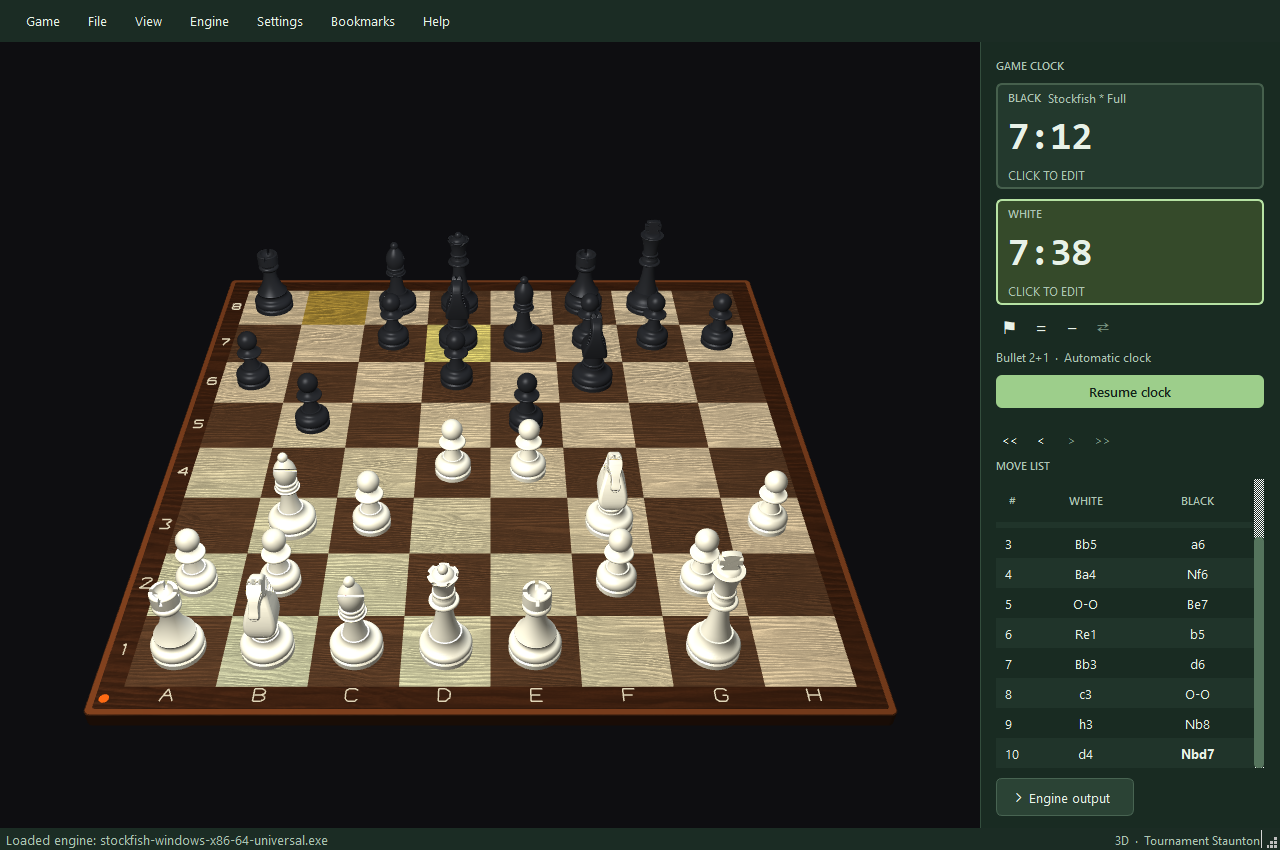
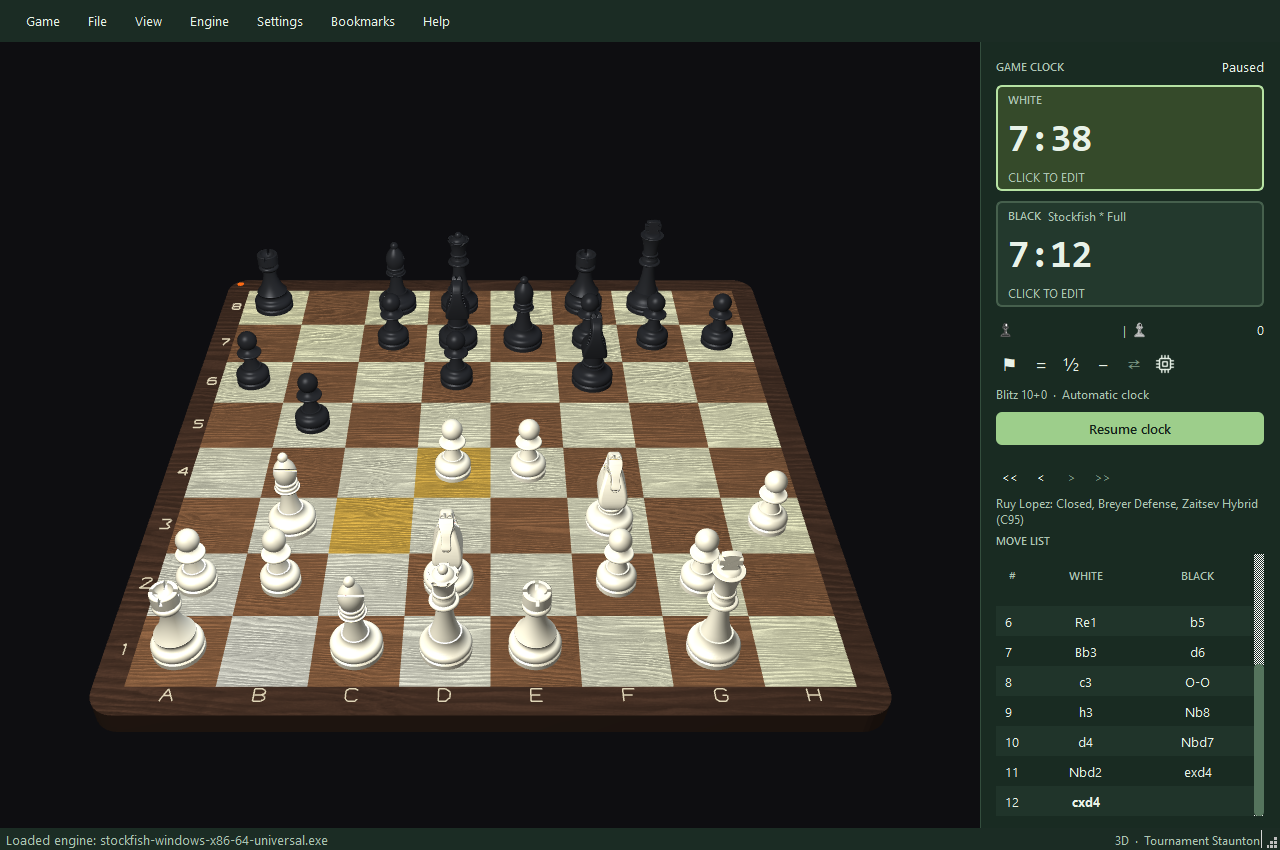
Refine sidebar controls and opening display; refresh themed screenshots

diff --git a/otb_chess/ui/desktop_ui.py b/otb_chess/ui/desktop_ui.py
@@ -31,7 +31,7 @@ from otb_chess.ui.document_actions import DocumentActions
 from otb_chess.graphics.board_types import BOARD_TYPES
 from otb_chess.graphics.board_colors import BOARD_COLOR_THEMES
 from otb_chess.ui.licenses_dialog import show_licenses
-from otb_chess.ui.chess_symbols import promotion_icon, flag_icon, clock_engine_label
+from otb_chess.ui.chess_symbols import promotion_icon, flag_icon, clock_engine_label, engine_icon
 from otb_chess.ui.variation_preview import VariationPreview
 from otb_chess.ui.engine_analysis import EngineAnalysisWindow
 
@@ -511,11 +511,11 @@ class MainWindow(DocumentActions, QMainWindow):
         self.material_balance = QLabel()
         self.material_row = QHBoxLayout()
         self.material_row.setSpacing(4)
-        self.material_row.addWidget(self.captured_white, 1)
+        self.material_row.addWidget(self.captured_black, 1)
         divider = QLabel("|")
         divider.setObjectName("hint")
         self.material_row.addWidget(divider)
-        self.material_row.addWidget(self.captured_black, 1)
+        self.material_row.addWidget(self.captured_white, 1)
         self.material_row.addWidget(self.material_balance)
         layout.addLayout(self.material_row)
         self.material_balance.setToolTip(
@@ -524,12 +524,14 @@ class MainWindow(DocumentActions, QMainWindow):
         self._material_position = None
         self.refresh_material()
         self.engine_enabled_button = QPushButton()
-        self.engine_enabled_button.setObjectName("engineEnabled")
+        self.engine_enabled_button.setObjectName("humanGameAction")
+        self.engine_enabled_button.setFixedSize(28, 24)
+        self.engine_enabled_button.setIconSize(QSize(22, 22))
         self.engine_enabled_button.setCheckable(True)
         self.engine_enabled_button.setChecked(self.game.engine_enabled)
         self.engine_enabled_button.toggled.connect(self.game.set_engine_enabled)
-        self.engine_enabled_button.setText("Engine on" if self.game.engine_enabled else "Engine off - free play")
-        layout.addWidget(self.engine_enabled_button)
+        self.refresh_engine_toggle()
+        self.engine_enabled_button.toggled.connect(lambda _: self.refresh_engine_toggle())
         self.game_actions_row = QWidget()
         actions = QHBoxLayout(self.game_actions_row)
         actions.setContentsMargins(0, 0, 0, 0)
@@ -543,6 +545,7 @@ class MainWindow(DocumentActions, QMainWindow):
             button.clicked.connect(lambda checked=False, action=key: self.invoke(self.human_game_action, action))
             self.clock_actions[key] = button
             actions.addWidget(button)
+        actions.addWidget(self.engine_enabled_button)
         actions.addStretch()
         layout.addWidget(self.game_actions_row)
         self.refresh_game_actions()
@@ -572,6 +575,12 @@ class MainWindow(DocumentActions, QMainWindow):
             self.move_navigation[symbol] = button
         navigation.addStretch()
         moves_layout.addLayout(navigation)
+        self.opening_name = QLabel("")
+        self.opening_name.setObjectName("hint")
+        self.opening_name.setWordWrap(True)
+        self.opening_name.setToolTip("Opening detected from the displayed move history.")
+        moves_layout.addWidget(self.opening_name)
+        self._opening_position = None
         label = QLabel("MOVE LIST")
         label.setObjectName("section")
         move_heading = QHBoxLayout()
@@ -1581,9 +1590,29 @@ class MainWindow(DocumentActions, QMainWindow):
         captured, balance = material_summary(board)
         self.captured_white.setText(captured[chess.WHITE])
         self.captured_black.setText(captured[chess.BLACK])
-        self.material_row.setStretch(0, max(1, len(captured[chess.WHITE])))
-        self.material_row.setStretch(2, max(1, len(captured[chess.BLACK])))
+        self.material_row.setStretch(0, max(1, len(captured[chess.BLACK])))
+        self.material_row.setStretch(2, max(1, len(captured[chess.WHITE])))
         self.material_balance.setText(f"{balance:+d}" if balance else "0")
+
+    def refresh_opening(self):
+        from otb_chess.chess_backend.openings import detect_opening
+        board = self.game.display_board
+        position = ChessPosition.from_board(board).history()
+        if position != self._opening_position:
+            self._opening_position = position
+            name = detect_opening(board, APP_DIR / "books" / "sources")
+            self.opening_name.setText(name or "")
+
+    def refresh_engine_toggle(self):
+        enabled = self.game.engine_enabled
+        color = self.engine_enabled_button.palette().buttonText().color()
+        state = (enabled, color.name())
+        if getattr(self, "_engine_icon_state", None) != state:
+            self._engine_icon_state = state
+            self.engine_enabled_button.setIcon(engine_icon(enabled, color))
+        description = "Engine on: click to turn off" if enabled else "Engine off: click to turn on"
+        self.engine_enabled_button.setToolTip(description)
+        self.engine_enabled_button.setAccessibleName(description)
 
     def tick(self):
         if self.closing:
@@ -1596,7 +1625,7 @@ class MainWindow(DocumentActions, QMainWindow):
         g.update_clock()
         self.engine_enabled_button.blockSignals(True)
         self.engine_enabled_button.setChecked(g.engine_enabled)
-        self.engine_enabled_button.setText("Engine on" if g.engine_enabled else "Engine off - free play")
+        self.refresh_engine_toggle()
         self.engine_enabled_button.blockSignals(False)
         if (getattr(g, '_engine_resume_pending', False) and not g.engine_manager.thinking
                 and not self.new_game_pending and self.pending_difficulty is None):
@@ -1622,6 +1651,7 @@ class MainWindow(DocumentActions, QMainWindow):
         self.black_clock.refresh(g)
         self.white_clock.refresh(g)
         self.refresh_material()
+        self.refresh_opening()
         self.refresh_game_actions()
         self.play_button.setText("Starting game…" if self.new_game_pending else "Start game" if not g.game_started or g.game_over else "Resume clock" if g.clock_paused else "Pause clock")
         self.play_button.setEnabled(not self.new_game_pending and

diff --git a/tests/test_desktop_ui.py b/tests/test_desktop_ui.py
@@ -58,6 +58,25 @@ class DesktopTests(unittest.TestCase):
         self.window.close()
         self.qt.processEvents()
 
+    def test_sidebar_material_opening_and_engine_icon(self):
+        w = self.window
+        self.assertIs(w.material_row.itemAt(0).widget(), w.captured_black)
+        actions = w.game_actions_row.layout()
+        self.assertEqual(actions.indexOf(w.engine_enabled_button),
+                         actions.indexOf(w.clock_actions['switch_sides']) + 1)
+        self.assertEqual(w.engine_enabled_button.text(), '')
+        self.assertFalse(w.engine_enabled_button.icon().isNull())
+        before = w.engine_enabled_button.icon().cacheKey()
+        w.engine_enabled_button.click()
+        self.assertNotEqual(before, w.engine_enabled_button.icon().cacheKey())
+        for san in ('e4', 'e5', 'Nf3', 'Nc6', 'Bb5'):
+            w.game.board.push_san(san)
+        w.refresh_opening()
+        self.assertIn('Ruy Lopez', w.opening_name.text())
+        layout = w.moves_panel.layout()
+        self.assertIs(layout.itemAt(0).layout().itemAt(0).widget(), w.move_navigation['<<'])
+        self.assertEqual(layout.indexOf(w.opening_name), 1)
+
     def screen(self,square):
         self.widget.makeCurrent()
         self.game.camera()

diff --git a/otb_chess/chess_backend/openings.py b/otb_chess/chess_backend/openings.py
@@ -1,0 +1,35 @@
+"""Offline opening recognition from the bundled CC0 Lichess repertoire."""
+
+import csv
+from functools import lru_cache
+from pathlib import Path
+import re
+
+from . import rules
+
+
+@lru_cache(maxsize=1)
+def opening_lines(folder):
+    lines = {}
+    for path in sorted(Path(folder).glob('*.tsv')):
+        with path.open(encoding='utf-8') as stream:
+            for row in csv.DictReader(stream, delimiter='\t'):
+                moves = tuple(re.sub(r'\d+\.(?:\.\.)?', '', row['pgn']).split())
+                lines[moves] = f"{row['name']} ({row['eco']})"
+    return lines
+
+
+def detect_opening(board, folder):
+    """Return the deepest named line in this board's recorded move history."""
+    replay = board.root()
+    if replay.fen().split()[:4] != rules.Board().fen().split()[:4]:
+        return None
+    lines = opening_lines(str(folder))
+    longest = max(map(len, lines), default=0)
+    moves = []
+    found = None
+    for move in board.move_stack[:longest]:
+        moves.append(replay.san(move))
+        replay.push(move)
+        found = lines.get(tuple(moves), found)
+    return found

diff --git a/otb_chess/ui/chess_symbols.py b/otb_chess/ui/chess_symbols.py
@@ -28,6 +28,28 @@ def flag_icon(background=None):
     return QIcon(pixmap)
 
 
+def engine_icon(enabled, color):
+    """A microchip crossed out when the engine is off."""
+    pixmap = QPixmap(48, 48)
+    pixmap.fill(Qt.GlobalColor.transparent)
+    painter = QPainter(pixmap)
+    painter.setRenderHint(QPainter.RenderHint.Antialiasing)
+    painter.setPen(QPen(color, 3))
+    painter.drawRoundedRect(12, 12, 24, 24, 3, 3)
+    painter.drawRect(19, 19, 10, 10)
+    for offset in (17, 24, 31):
+        painter.drawLine(offset, 6, offset, 12)
+        painter.drawLine(offset, 36, offset, 42)
+        painter.drawLine(6, offset, 12, offset)
+        painter.drawLine(36, offset, 42, offset)
+    if not enabled:
+        painter.setPen(QPen(QColor('#e36d65'), 4))
+        painter.drawLine(7, 7, 41, 41)
+        painter.drawLine(41, 7, 7, 41)
+    painter.end()
+    return QIcon(pixmap)
+
+
 def clock_engine_label(game, color):
     manager = game.engine_manager
     if not getattr(game, "engine_enabled", True) or manager.engine is None or game.engine_side_var.get() != ("White" if color else "Black"):

diff --git a/tests/test_openings.py b/tests/test_openings.py
@@ -1,0 +1,19 @@
+import unittest
+from otb_chess.chess_backend import rules
+from otb_chess.chess_backend.openings import detect_opening
+from otb_chess.services.settings import APP_DIR
+
+
+class OpeningTests(unittest.TestCase):
+    def test_opening_follows_history_and_takeback(self):
+        board = rules.Board()
+        folder = APP_DIR / 'books' / 'sources'
+        self.assertIsNone(detect_opening(board, folder))
+        for san in ('e4', 'e5', 'Nf3', 'Nc6', 'Bb5'):
+            board.push_san(san)
+        before = rules.snapshot_history(board)
+        self.assertIn('Ruy Lopez', detect_opening(board, folder))
+        self.assertEqual(before, rules.snapshot_history(board))
+        board.pop()
+        self.assertNotIn('Ruy Lopez', detect_opening(board, folder))
+        self.assertIsNone(detect_opening(rules.Board('7k/8/8/8/8/8/P7/7K w - - 0 1'), folder))

diff --git a/README.md b/README.md
@@ -5,7 +5,7 @@ engine analysis and organized position study.
 
 **1.4.0-beta.1 ? Windows ? Beta / pre-release**
 
-![OTBMaster3D with a Ruy Lopez middlegame](docs/images/3d-middlegame.png)
+![Ruy Lopez on Rounded Oak with the Forest interface and opening name below navigation](docs/images/3d-middlegame.png)
 
 This repository and its screenshots, source and release downloads are **private**.
 Access is limited to authorized collaborators; no public distribution is implied.
@@ -19,19 +19,28 @@ Access is limited to authorized collaborators; no public distribution is implied
 - Hierarchical bookmarks for positions: nested folders, drag/drop ordering, a
   floating organizer and matching Bookmarks menu.
 - PGN/FEN import and export, move review, static evaluation and session recovery.
+- Offline opening recognition below the move navigation controls, with the opening
+  name and ECO code following the displayed move history.
+- Captured white pieces on the left and black pieces on the right, plus a compact
+  engine icon beside Switch Sides that is crossed out when the engine is off.
 - Board materials, 3D/2D piece sets, interface themes and eight sound profiles.
   Preferences and bookmark panel geometry are remembered.
 
-| Stockfish analysis | Position organization |
+| Stockfish analysis: Midnight Ocean | Bookmarks: Marble & Brass, Amethyst |
 | --- | --- |
 | ![Stockfish evaluation and principal variation](docs/images/engine-analysis.png) | ![Nested bookmark folders](docs/images/bookmark-organization.png) |
 
 <details>
-<summary>2D view and theme customization</summary>
+<summary>More board styles and themes</summary>
 
-![Textbook pieces with the Warm Paper theme](docs/images/2d-study.png)
+![Polished Marble with Ocean board colours and the Midnight Ocean interface](docs/images/3d-marble.png)
+
+![2D Canvas Roll-up with Sage colours, Textbook pieces and Warm Paper; engine switched off](docs/images/2d-study.png)
 
 </details>
+
+Screenshots show the current source version. See [capture details](docs/images/README.md)
+for the board and theme combinations; the published beta installer predates these sidebar changes.
 
 ## Install on Windows
 
@@ -64,6 +73,7 @@ of the documented [third-party licence review gaps](docs/private-release-review.
 | Start or pause clocks | Ctrl+P |
 | Press OTB clock | Space |
 | Take back / switch sides | U / Game > Switch sides or the switch-arrows button |
+| Enable or disable engine play | Microchip icon beside Switch Sides; crossed out means off |
 | Flip board / reset view | Ctrl+F / Ctrl+R |
 | Manage bookmarks | Ctrl+Shift+B |
 | Sidebar / focus mode | Ctrl+B / Ctrl+Shift+F |

diff --git a/docs/images/README.md b/docs/images/README.md
@@ -1,11 +1,18 @@
 # Private application screenshots
 
-These four captures show the actual 1.4.0-beta.1 application with a legal Ruy Lopez
-position, temporary preferences and demonstration bookmarks. No personal saved
-positions, filesystem paths, other application windows or desktop clutter appear.
-No image generation or mockups were used. Keep these files within the private repository.
+Captured from the current source on 2026-09-27, using an actual Ruy Lopez game,
+temporary preferences and demonstration bookmarks. The source still identifies as
+1.4.0-beta.1; these captures include unreleased sidebar changes.
+No personal saved positions, filesystem paths, other application windows or desktop
+clutter appear. Keep these files within the private repository.
 
-- `3d-middlegame.png`: 3D board, clocks and move history.
-- `engine-analysis.png`: live Stockfish evaluation and principal variation.
-- `bookmark-organization.png`: nested folders in the floating bookmark organizer.
-- `2d-study.png`: Textbook pieces and Warm Paper interface theme.
+| Screenshot | Board and pieces | Interface | Shows |
+| --- | --- | --- | --- |
+| `3d-middlegame.png` | Rounded Oak, Walnut & Maple, Tournament Staunton | Forest | Opening name below navigation, white captured symbols on the left, compact engine control |
+| `3d-marble.png` | Polished Marble, Ocean, Tournament Staunton | Midnight Ocean | Another 3D material and colour combination |
+| `engine-analysis.png` | Separate analysis window | Midnight Ocean | Live Stockfish scores, three variation lines and search controls |
+| `bookmark-organization.png` | Marble & Brass, Amethyst, Tournament Staunton | Amethyst | Floating bookmark organizer with nested folders |
+| `2d-study.png` | Canvas Roll-up, Sage, Textbook | Warm Paper | 2D study and the crossed-out icon for engine off |
+
+The screenshots are direct Qt window or application-region captures, with no
+generated imagery or mockups. Engine scores can vary between captures.

diff --git a/docs/user-guide.md b/docs/user-guide.md
@@ -93,6 +93,23 @@ move timing remain unchanged.
 | Start/pause | Sidebar button or Ctrl + P. |
 | Close the app | Game → Quit or Ctrl + Q. |
 
+## Sidebar and opening recognition
+
+The opening name and ECO code appear directly below the move navigation icons,
+above **MOVE LIST**. Detection uses the bundled Lichess opening lines and works
+offline. It follows the displayed move history, including move review and takeback,
+and retains the most specific matched line as play continues. The label stays blank
+when no line matches. Recognition uses the recorded move order from the normal
+starting position; a standalone FEN does not supply opening history.
+
+Captured white piece symbols always appear on the left and captured black piece
+symbols on the right, regardless of board orientation. These show pieces lost by
+each colour. The number beside them is White's material minus Black's material.
+
+Use the microchip icon beside **Switch Sides** to enable or disable engine play.
+A cross through the icon means the engine is off; the tooltip also reports the state.
+This control is separate from **Start analysis / Stop analysis** in Engine Analysis.
+
 ## Engines and opening books
 
 Open **Engine → Engine and opening book**. Choose a compatible Windows UCI engine

diff --git a/CHANGELOG.md b/CHANGELOG.md
@@ -1,5 +1,15 @@
 # Changelog
 
+## Unreleased
+
+- Keep captured white piece symbols on the left and black symbols on the right.
+- Show the detected opening name and ECO code below move navigation, using bundled
+  opening data. Follow move review and leave the label blank when no opening matches.
+- Replace the full-width engine button with a microchip icon beside Switch Sides;
+  the icon is crossed out when engine play is off.
+- Refresh application screenshots with Rounded Oak, Polished Marble, Marble & Brass
+  and Canvas boards, and Forest, Midnight Ocean, Amethyst and Warm Paper themes.
+
 ## 1.4.0-beta.1 - 2026-09-19
 
 - Stabilization snapshot with bookmark folders, ordering, restoration and the Bookmarks menu.
